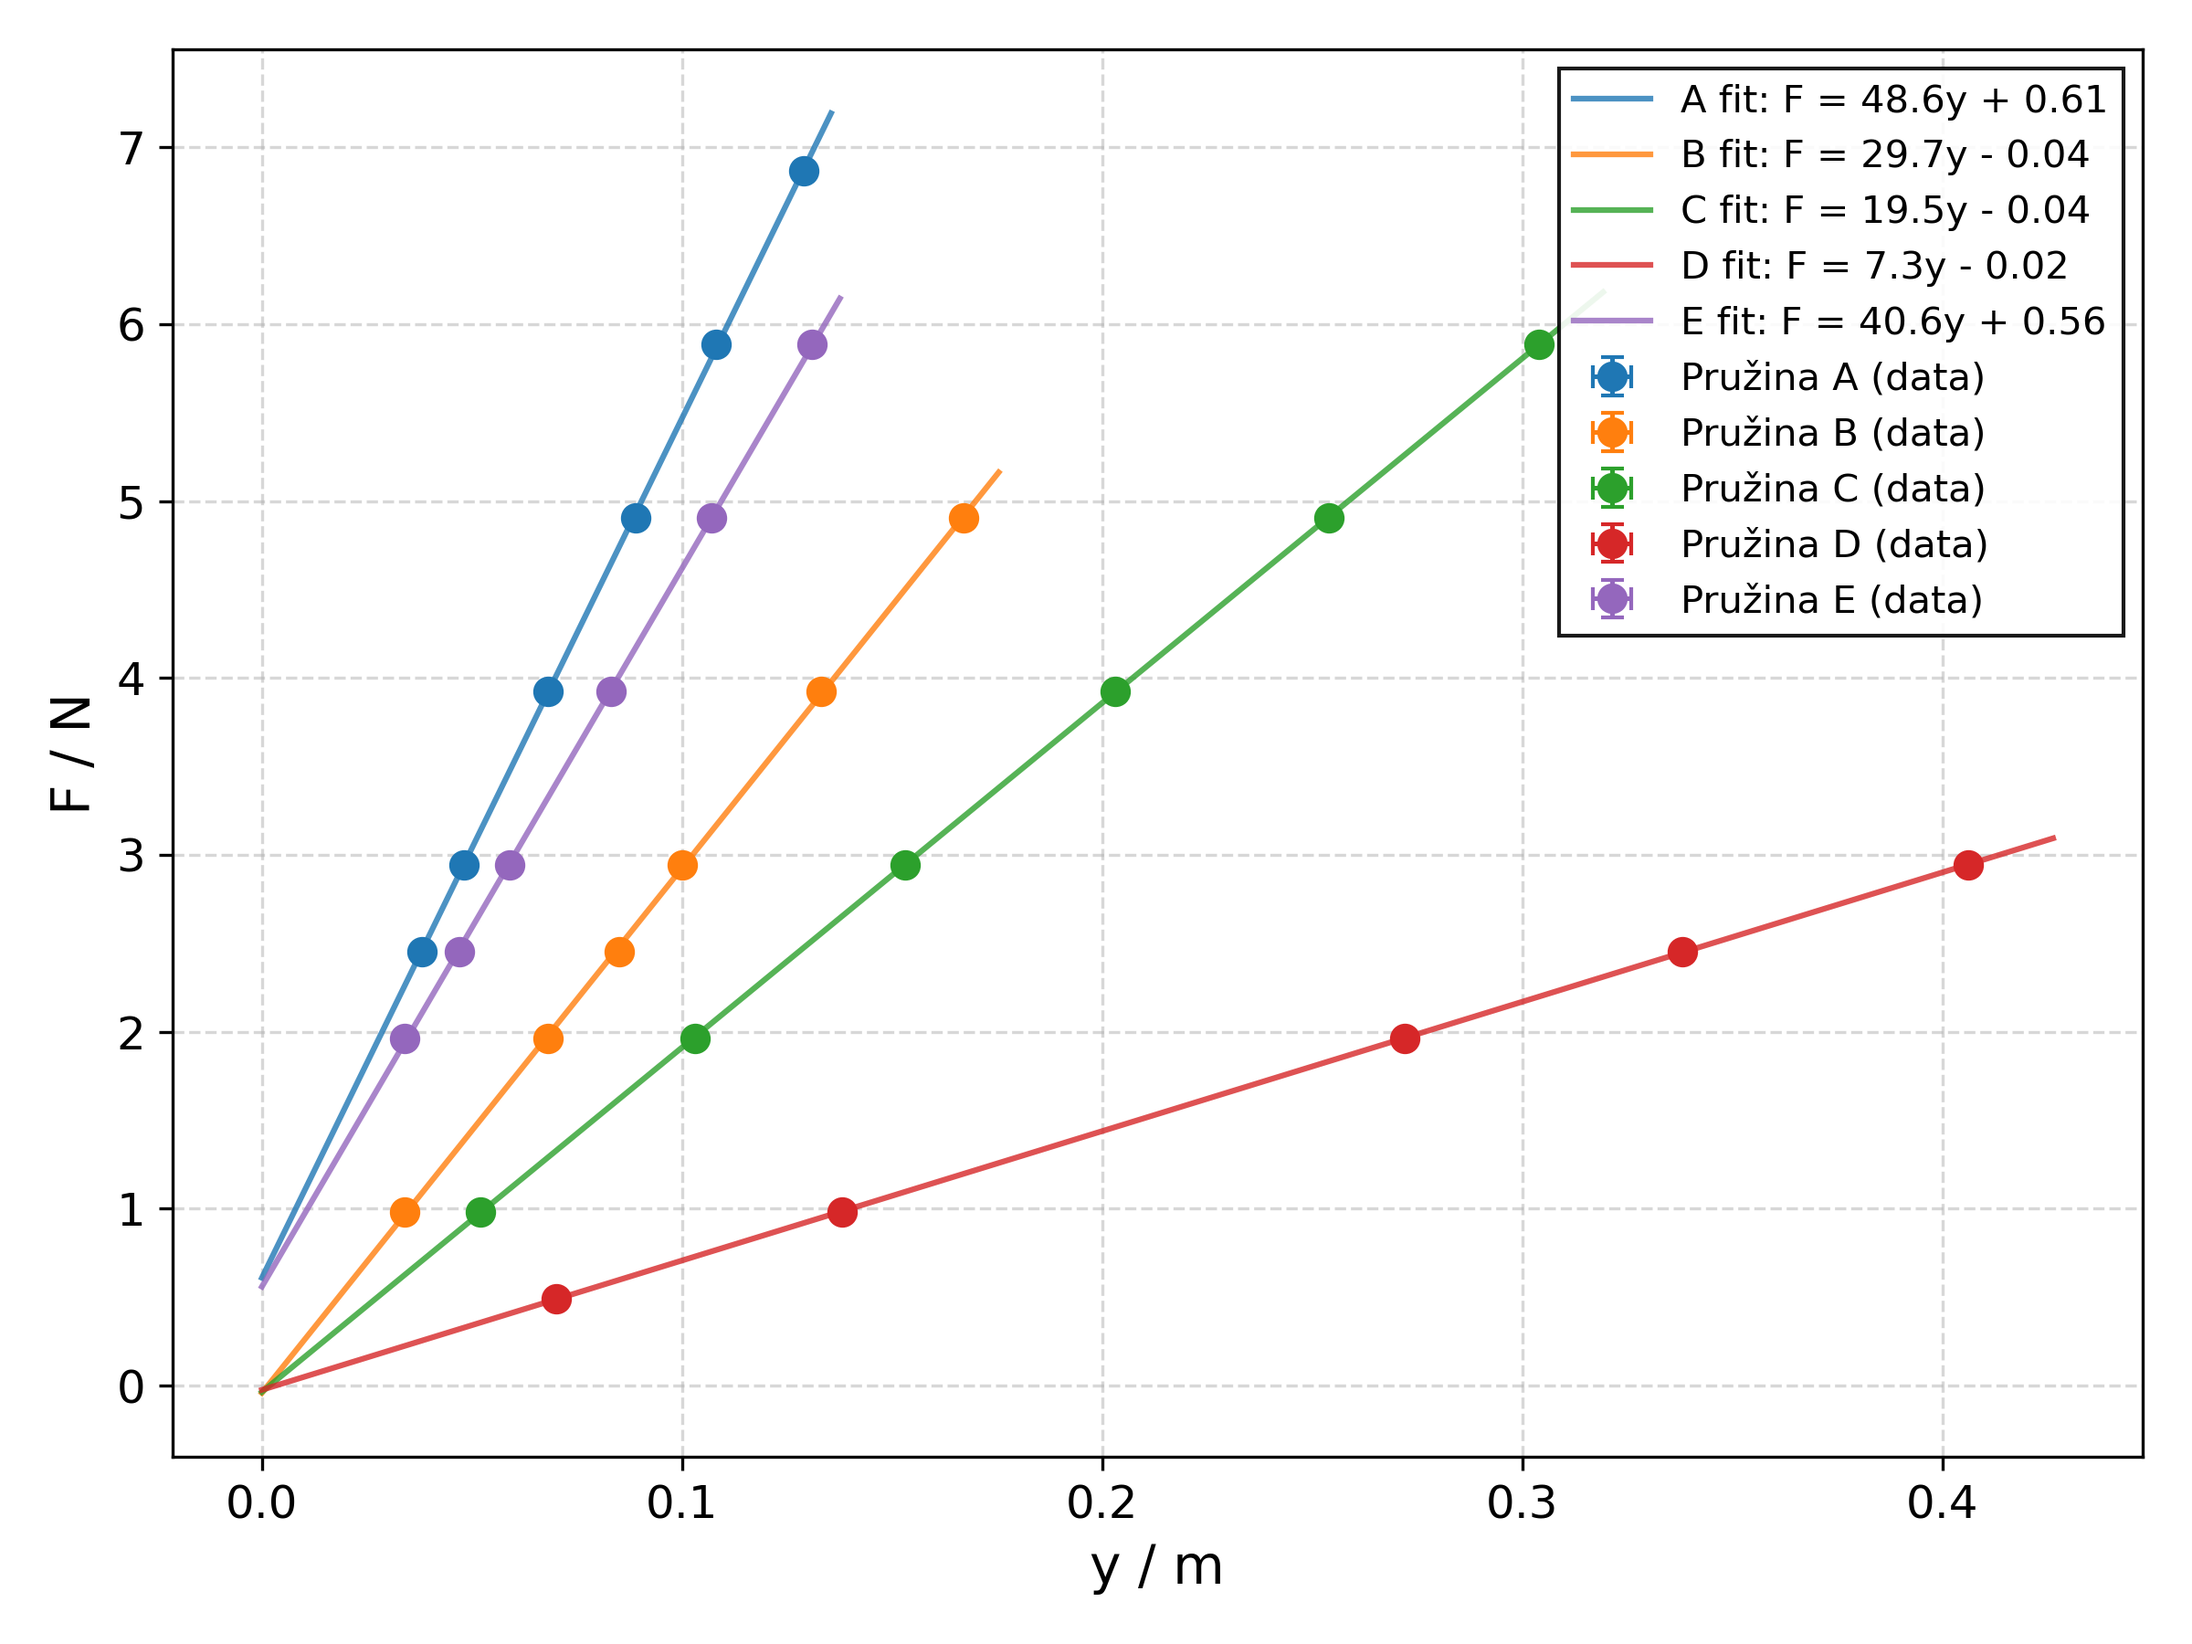
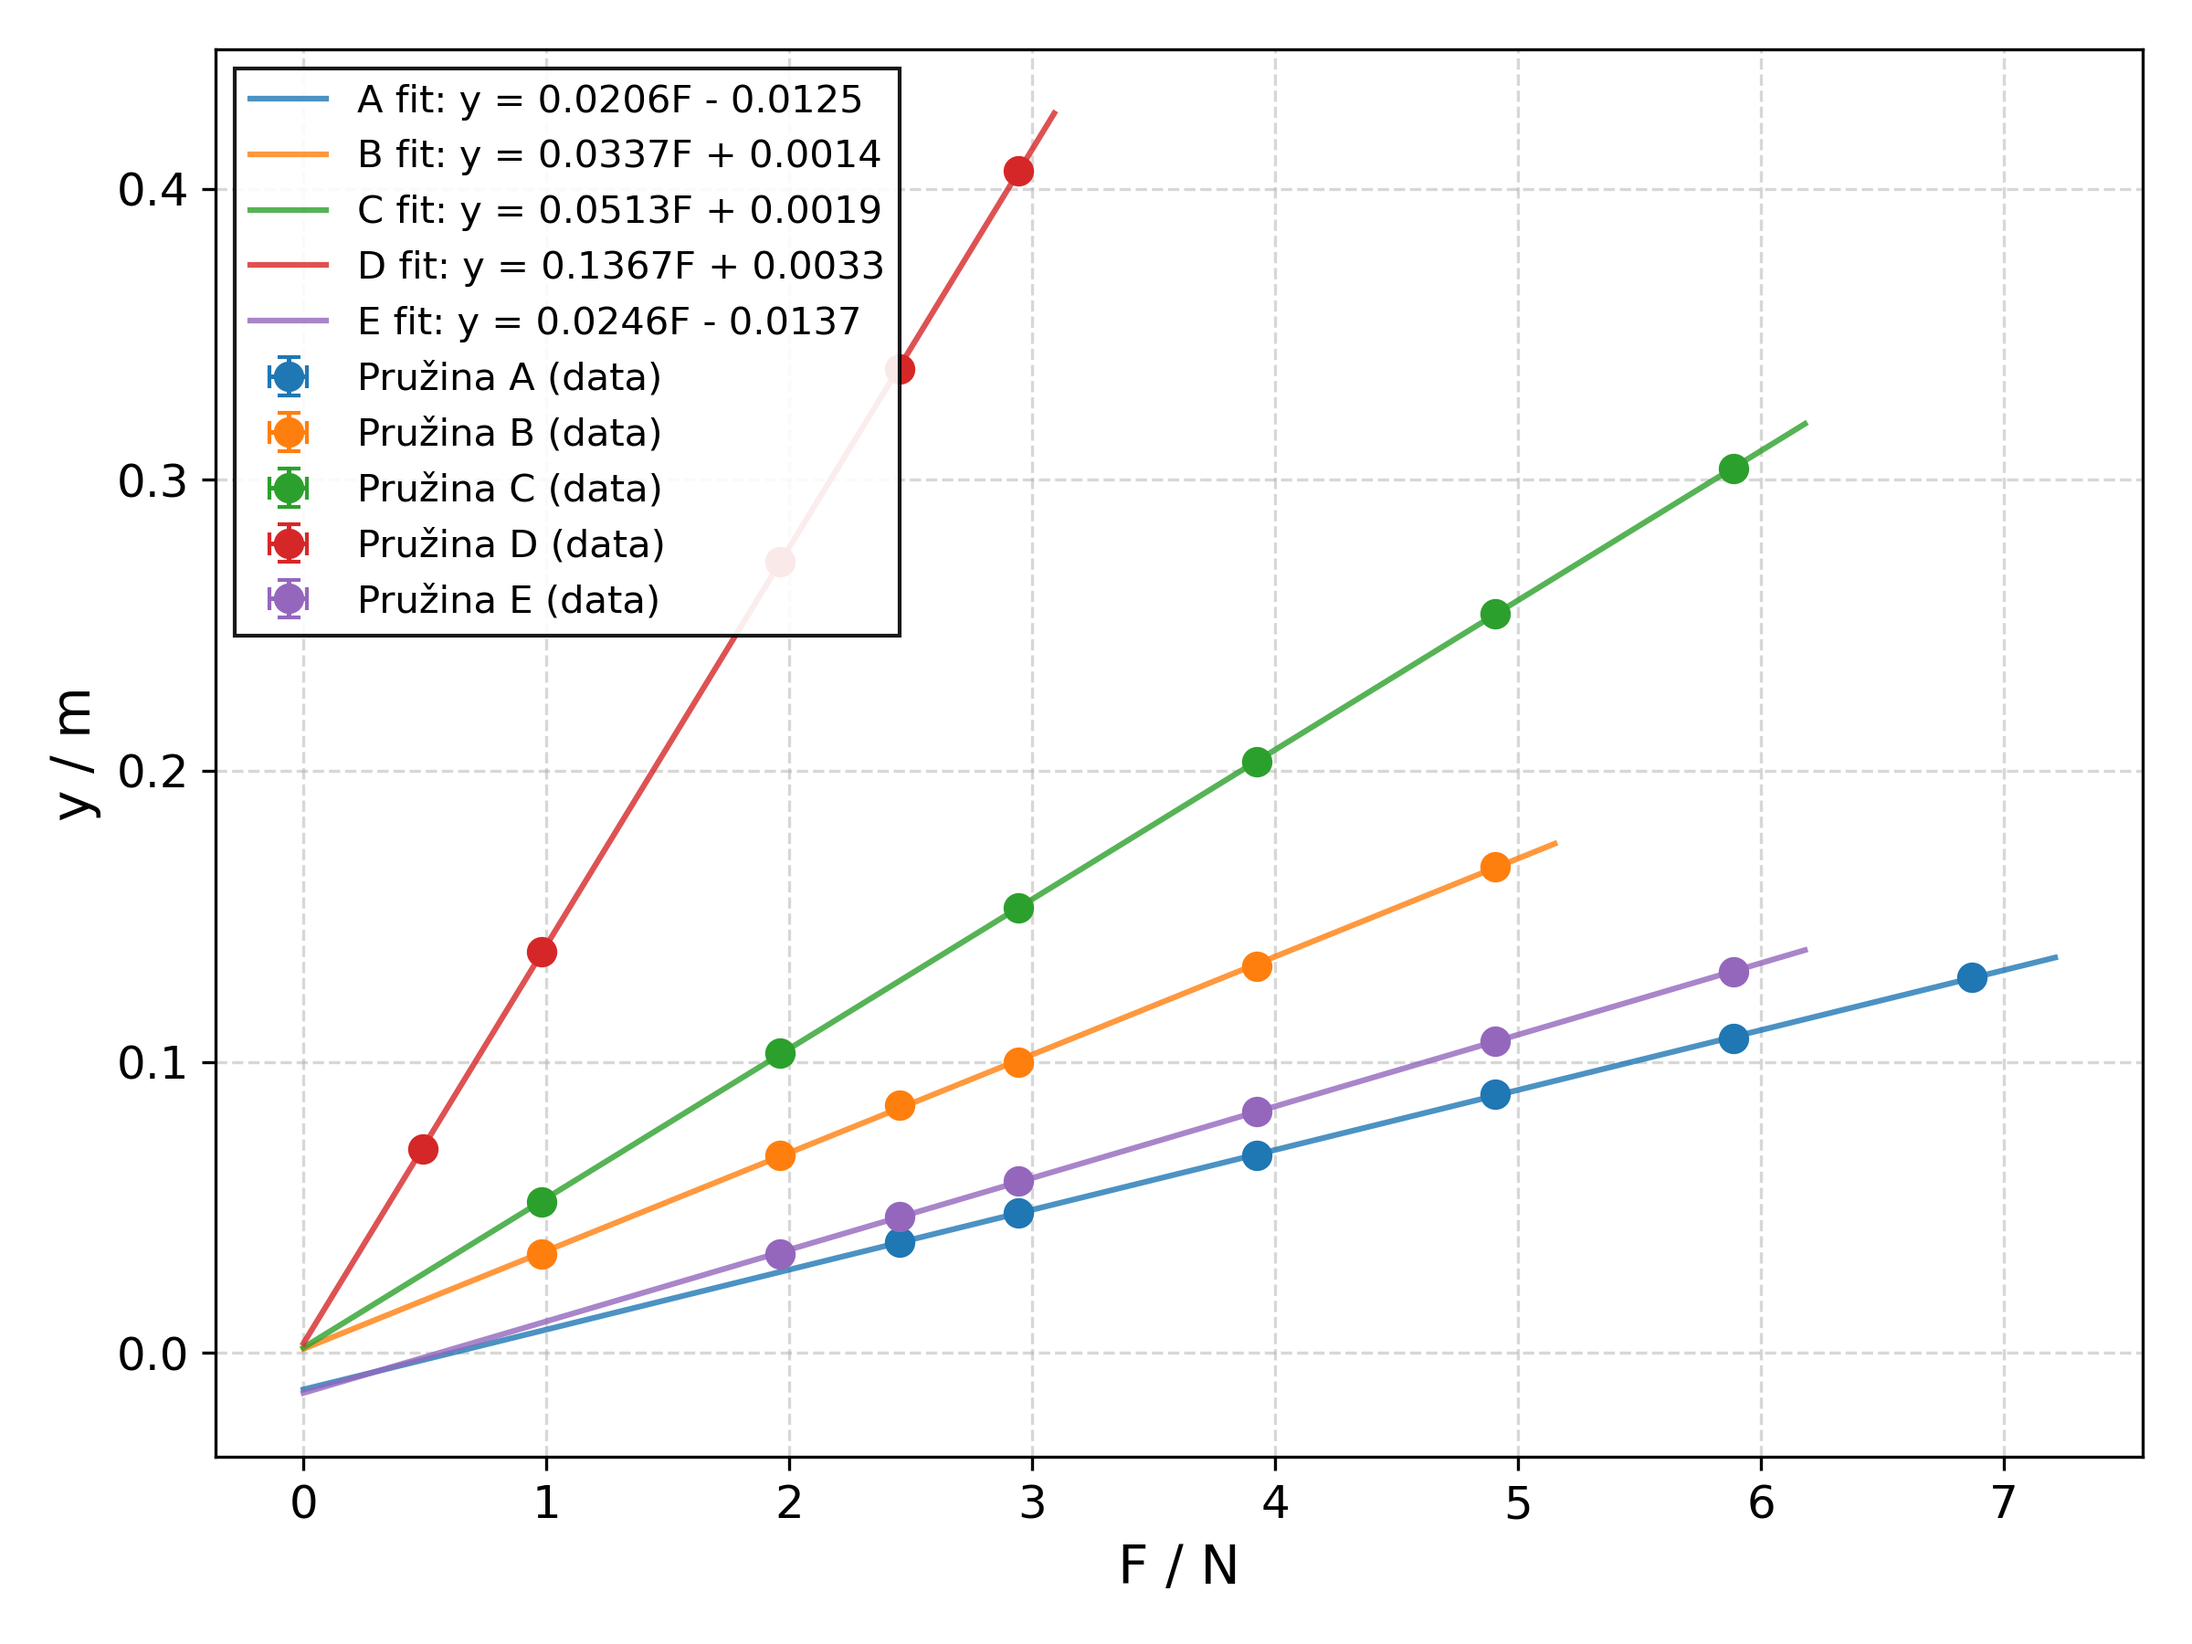
poslední změny

diff --git a/Praktika/II/skript_analysis.py b/Praktika/II/skript_analysis.py
@@ -58,12 +58,12 @@ def lin_fit_affine(x, a, b):
     """ Funkce pro afinní fit: y = ax + b """
     return a * x + b
 
-def format_eq_b(b):
+def format_eq_b(b, dec=2):
     """ Zformátuje absolutní člen pro legendu (vyhne se zápisu '+ (-x)') """
     if b >= 0:
-        return f"+ {b:.2f}"
+        return f"+ {b:.{dec}f}"
     else:
-        return f"- {abs(b):.2f}"
+        return f"- {abs(b):.{dec}f}"
 
 # =============================================================================
 # 3) NAČÍTÁNÍ DAT
@@ -167,19 +167,30 @@ for p in pruziny_stat:
     F_vals, y0_vals = np.array(F_vals), np.array(y0_vals)
     F_errs, y0_errs = np.array(F_errs), np.array(y0_errs)
     
-    scatter = ax.errorbar(y0_vals, F_vals, xerr=y0_errs, yerr=F_errs, fmt='o', capsize=3, elinewidth=1.2, label=f'Pružina {p} (data)')
+    # Graf: osa X je síla F, osa Y je prodloužení y0
+    scatter = ax.errorbar(F_vals, y0_vals, xerr=F_errs, yerr=y0_errs, fmt='o', capsize=3, elinewidth=1.2, label=f'Pružina {p} (data)')
     color = scatter[0].get_color()
     
     if len(y0_vals) >= 2:
         try:
-            popt, pcov = curve_fit(lin_fit_affine, y0_vals, F_vals, sigma=F_errs, absolute_sigma=True)
-            k_stat = ufloat(popt[0], np.sqrt(pcov[0, 0]))
+            # Fitování y = a*F + b, kde a = 1/k
+            popt, pcov = curve_fit(lin_fit_affine, F_vals, y0_vals, sigma=y0_errs, absolute_sigma=True)
+            
+            # Parametr a (směrnice) a b (posun)
+            a_stat = ufloat(popt[0], np.sqrt(pcov[0, 0]))
             b_stat = ufloat(popt[1], np.sqrt(pcov[1, 1]))
             
-            # Vykreslení fitu jen mírně za hranice dat
-            x_fit = np.linspace(0, max(y0_vals)*1.05, 100)
-            eq_label = f'{p} fit: F = {popt[0]:.1f}y {format_eq_b(popt[1])}'
-            ax.plot(x_fit, lin_fit_affine(x_fit, *popt), '-', color=color, alpha=0.8, label=eq_label)
+            # Výpočet tuhosti k = 1 / a (včetně automatického přenosu chyb)
+            if a_stat.n != 0:
+                k_stat = 1 / a_stat
+            else:
+                k_stat = ufloat(0, 0)
+            
+            # Vykreslení fitu (x je F, y je prodloužení)
+            x_fit = np.linspace(0, max(F_vals)*1.05, 100)
+            y_fit = lin_fit_affine(x_fit, *popt)
+            eq_label = f'{p} fit: y = {popt[0]:.4f}F {format_eq_b(popt[1], 4)}'
+            ax.plot(x_fit, y_fit, '-', color=color, alpha=0.8, label=eq_label)
         except RuntimeError:
             k_stat, b_stat = ufloat(0, 0), ufloat(0, 0)
     else:
@@ -187,8 +198,8 @@ for p in pruziny_stat:
 
     stat_results[p] = {'k': k_stat, 'b': b_stat}
 
-ax.set_xlabel('y / m')
-ax.set_ylabel('F / N')
+ax.set_xlabel('F / N')
+ax.set_ylabel('y / m')
 # Bez titulku pro protokol
 ax.legend(loc='best')
 plt.savefig(os.path.join(OUT_DIR, 'graf_statika.png'), dpi=300)
@@ -336,8 +347,8 @@ with open(RESULTS_FILE, 'w', encoding='utf-8') as f:
     f.write("="*65 + "\n\n")
     
     f.write("--- 1. TUHOST PRUŽIN (Statická metoda) ---\n")
-    f.write("Rovnice regrese: F = k*y + b\n")
-    f.write(f"{'Pružina':<10} | {'Tuhost k (N/m)':<25} | {'Posun b (N)':<25}\n")
+    f.write("Rovnice regrese: y = (1/k)*F + b\n")
+    f.write(f"{'Pružina':<10} | {'Tuhost k (N/m)':<25} | {'Posun b (m)':<25}\n")
     f.write("-" * 65 + "\n")
     for p in pruziny_stat:
         k_str = format_unc(stat_results[p]['k'].n, stat_results[p]['k'].s)
